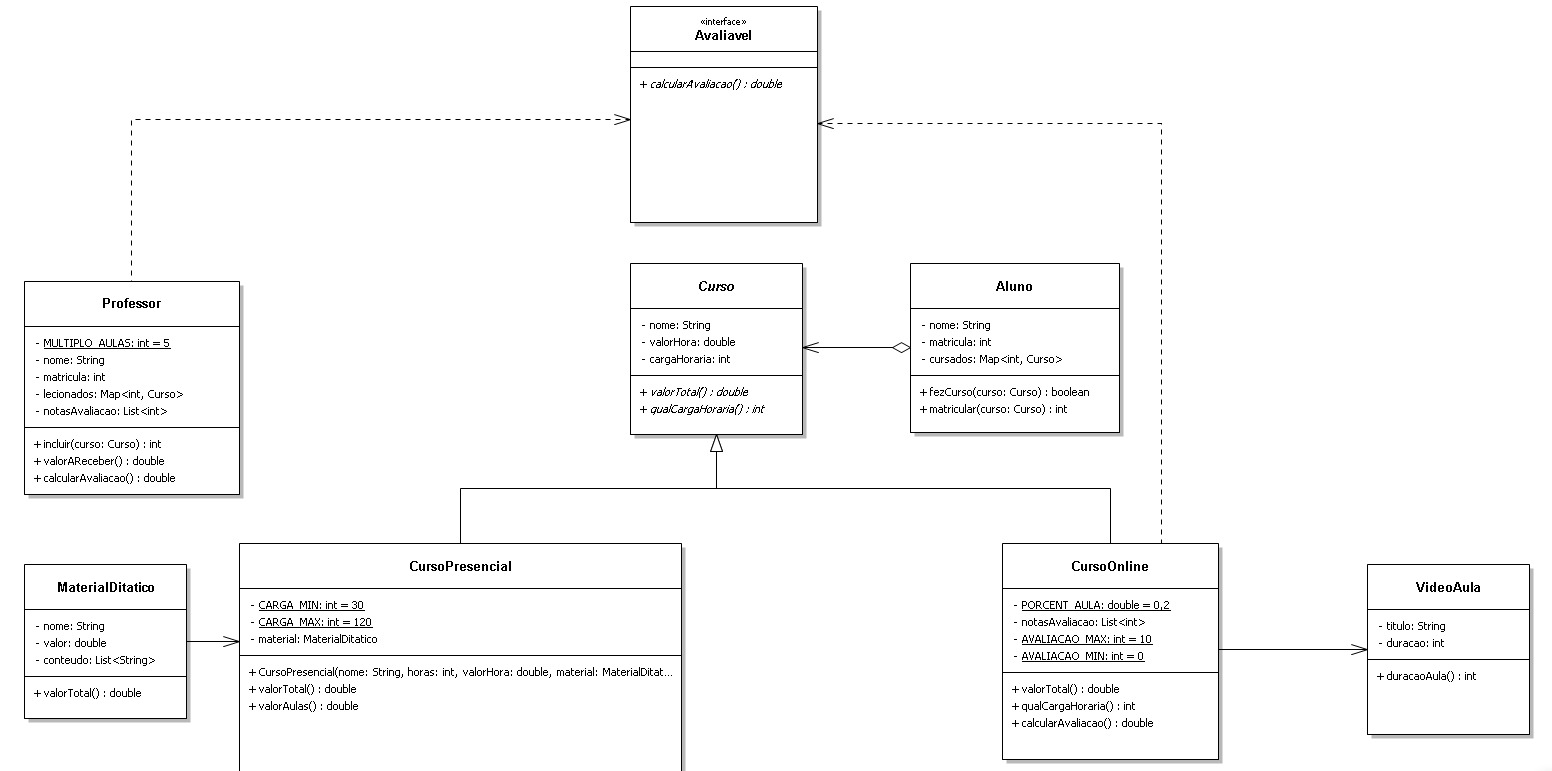
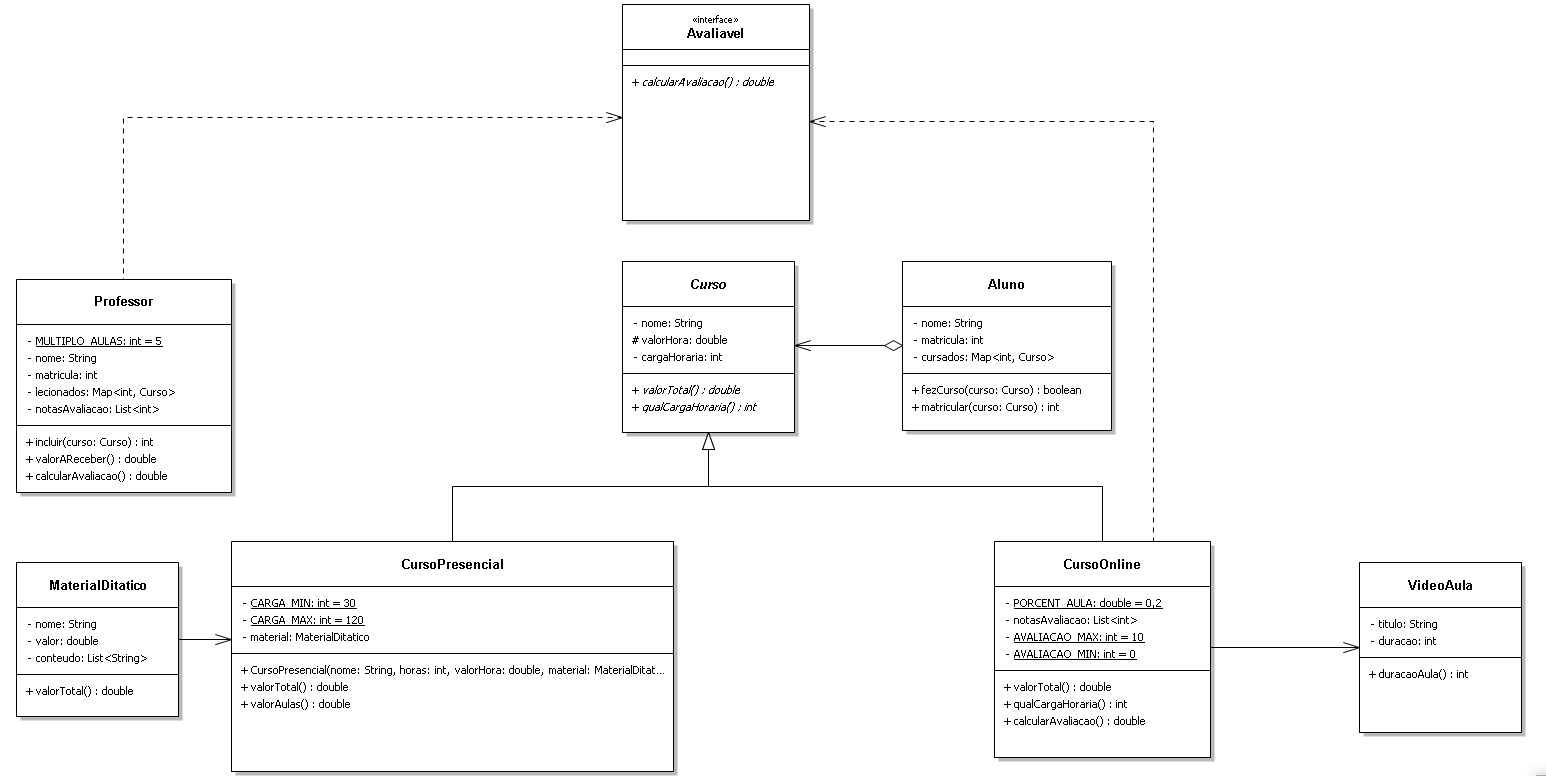
Exercicio numero 12

diff --git a/Exercicios Semanais/Semana 12/src/App.java b/Exercicios Semanais/Semana 12/src/App.java
@@ -9,11 +9,11 @@ public class App {
         VideoAula v3 = new VideoAula("Heranca", 60);
 
         CursoPresencial cPresencial = new CursoPresencial("Java Presencial", 40, 25.0, mat);
-        CursoOnline cOnline = new CursoOnline("Java Online", 25.0, Arrays.asList(v1, v2, v3));
+        CursoOnline cursoOnline = new CursoOnline("Java Online", 25.0, Arrays.asList(v1, v2, v3));
 
         Professor prof = new Professor("Joao", 12345);
         prof.incluir(cPresencial);
-        prof.incluir(cOnline);
+        prof.incluir(cursoOnline);
 
         Aluno aluno = new Aluno("Maria", 1);
         aluno.matricular(cPresencial);
@@ -21,14 +21,18 @@ public class App {
         // Questao 1
         System.out.println("Valor a receber do professor: R$ " + prof.valorAReceber());
 
-        // Questao 2: Aluno avalia professor (nota 0 a 5)
+        
         prof.adicionarAvaliacao(5);
         prof.adicionarAvaliacao(4);
         prof.adicionarAvaliacao(2);
         System.out.println("Avaliacao do professor: " + prof.calcularAvaliacao());
 
-        // Questao 3
-        System.out.println("Valor curso online: R$ " + cOnline.valorTotal());
-        System.out.println("Carga horaria curso online: " + cOnline.qualCargaHoraria() + "h");
+
+
+
+        
+
+        System.out.println("Valor curso online: R$ " + cursoOnline.valorTotal());
+        System.out.println("Carga horaria curso online: " + cursoOnline.qualCargaHoraria() + "h");
     }
 }